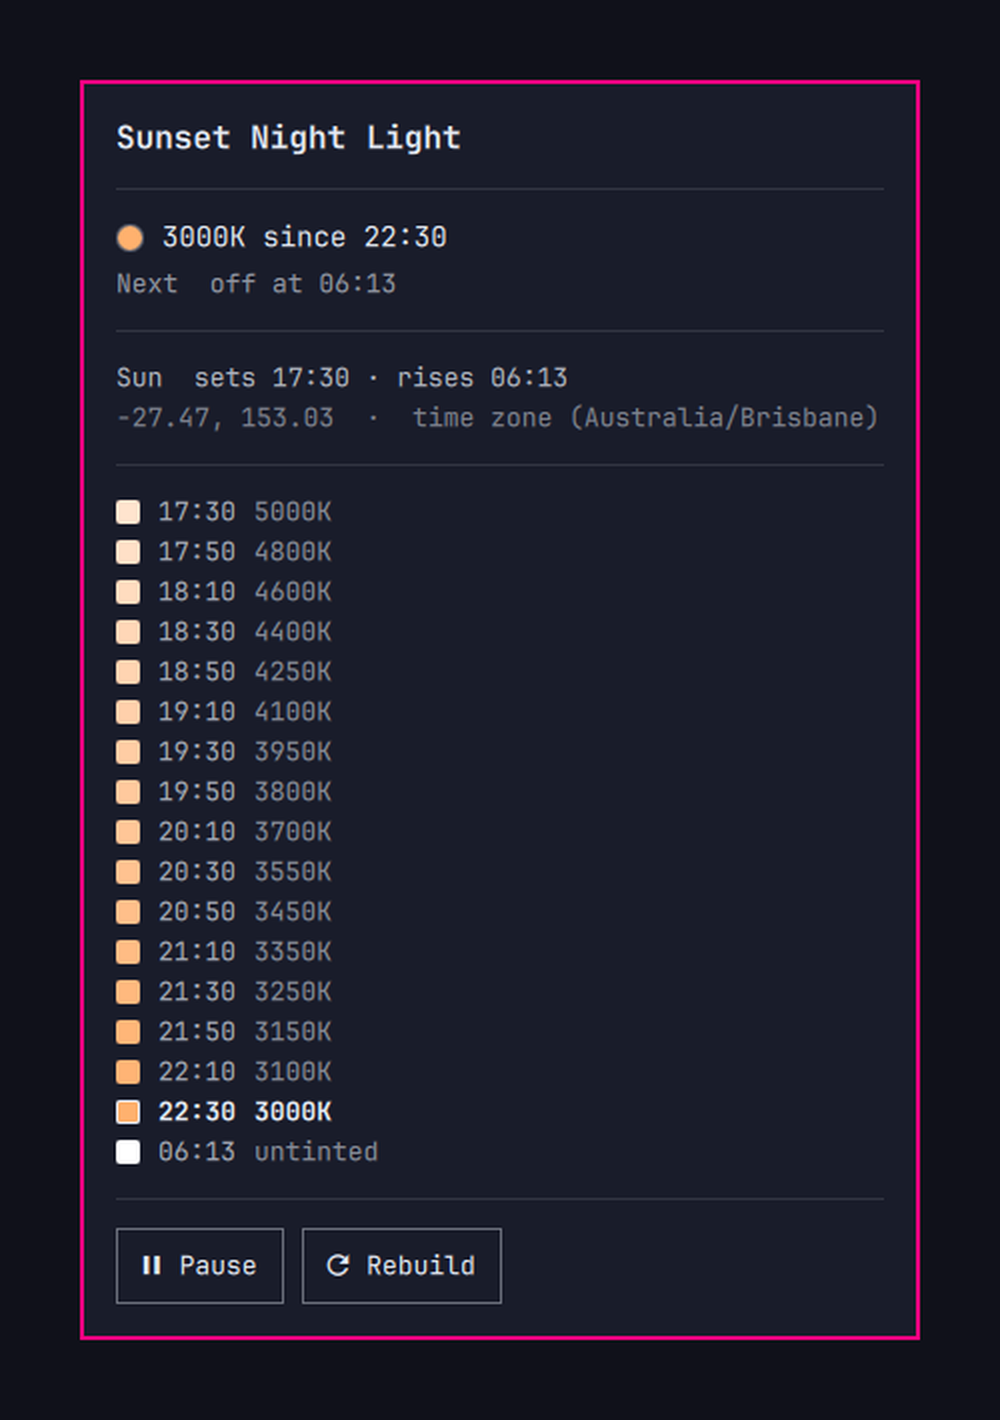
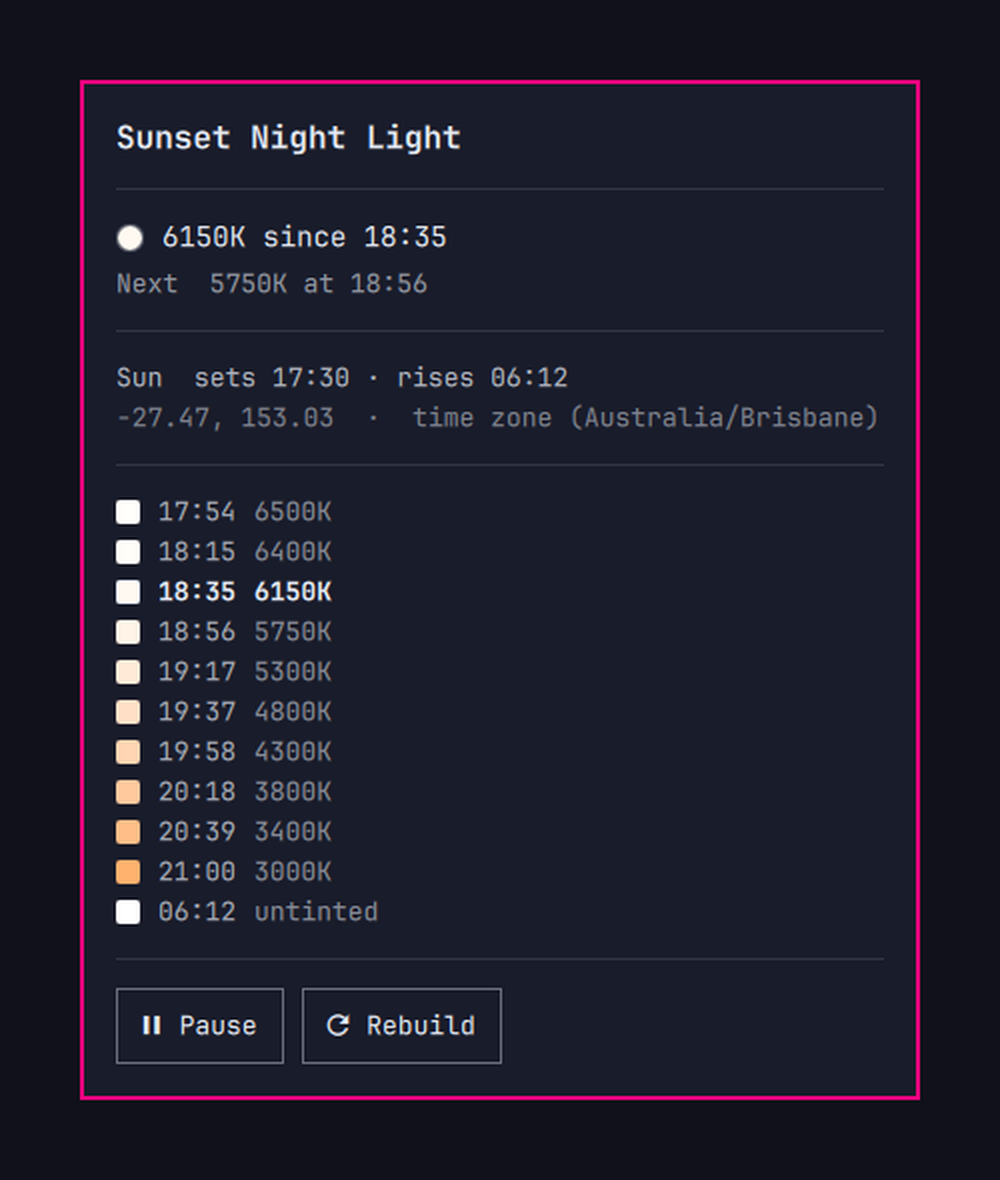
End the ramp at a clock time, not after a fixed duration
Five hours from dusk put full tint at 22:54, which is far too late to be
winding down, and it would only get worse: dusk here moves from 17:28 in
midwinter to 19:09 in midsummer, so a fixed duration drifts the floor towards
midnight exactly when the evening is shortest.

full_tint_by pins the end of the ramp to a clock time instead, defaulting to
21:00. The length then follows the season on its own -- 212 minutes in
midwinter, 186 tonight, 111 in midsummer -- and the screen is always fully warm
at the hour that matters, which is about the evening rather than about the sun.

Setting it to null keeps the old fixed-duration behaviour via ramp_minutes. An
early-hours target such as 01:00 means the following morning. A target that has
already passed by the time it gets dark keeps min_ramp_minutes rather than
inverting the ramp.

Three existing tests set ramp_minutes and so passed without testing anything
once the clock target took over; they now disable it explicitly. Six more cover
the target, the seasonal scaling, and both awkward targets.

Changed region(s): [[0.062, 0.0305, 0.93, 0.8542], [0.062, 0.8542, 0.93, 0.9458]]

diff --git a/tests/test_schedule.py b/tests/test_schedule.py
@@ -111,7 +111,7 @@ def test_zone_with_several_names_still_resolves():
 # ------------------------------------------------------------------ ladder
 
 
-def build(day=date(2026, 8, 21), tz_name="Australia/Brisbane", **overrides):
+def build(day=date(2026, 8, 22), tz_name="Australia/Brisbane", **overrides):
     tz = ZoneInfo(tz_name)
     s = settings(**overrides)
     return nl.build_schedule(s, day, -27.4667, 153.0333, tz), s
@@ -205,7 +205,7 @@ def test_no_duplicate_clock_times():
 def test_ramp_never_runs_past_the_morning_profile():
     # A ramp longer than the night must be clamped, or the ladder would emit a
     # warm profile after the untinted one and hold the tint through the day.
-    (steps, info), _ = build(ramp_minutes=2000)
+    (steps, info), _ = build(ramp_minutes=2000, full_tint_by=None)
     assert info["ramp_end"] < info["day_start"]
     for when, temp in steps:
         if temp is None:
@@ -229,19 +229,75 @@ def test_interpolation_is_even_in_mireds():
     # the 50 K output rounding first, or quantisation noise swamps the check,
     # and flatten the curve, which deliberately makes the steps uneven in time.
     (steps, _), _ = build(step_minutes=60, ramp_minutes=300, round_to_kelvin=1,
-                          ramp_curve_power=1.0)
+                          ramp_curve_power=1.0, full_tint_by=None)
     mireds = [1e6 / t for _, t in steps if t is not None]
     gaps = [b - a for a, b in zip(mireds, mireds[1:])]
     assert max(gaps) - min(gaps) < 0.5, f"mired steps are uneven: {gaps}"
 
 
 def test_rounding_stays_within_half_a_quantum():
-    (rounded, _), s = build(step_minutes=60, ramp_minutes=300)
-    (exact, _), _ = build(step_minutes=60, ramp_minutes=300, round_to_kelvin=1)
+    (rounded, _), s = build(step_minutes=60, ramp_minutes=300, full_tint_by=None)
+    (exact, _), _ = build(step_minutes=60, ramp_minutes=300, round_to_kelvin=1,
+                          full_tint_by=None)
     for (_, got), (_, want) in zip(rounded, exact):
         if got is None or want is None:
             continue
         assert abs(got - want) <= s["round_to_kelvin"] / 2 + 1
+
+
+def test_ramp_ends_at_the_target_clock_time():
+    (steps, info), s = build()
+    assert info["ramp_end"].strftime("%H:%M") == s["full_tint_by"] == "21:00"
+    warm = [(w, temp) for w, temp in steps if temp is not None]
+    assert warm[-1][1] == s["night_temp"]
+    assert warm[-1][0].strftime("%H:%M") == "21:00"
+
+
+def test_ramp_length_follows_the_season():
+    # The point of a clock target: dusk moves by over an hour across the year
+    # here, so a fixed duration would land full tint near midnight in summer.
+    lengths = {}
+    for day in (date(2026, 6, 21), date(2026, 12, 21)):
+        (_, info), _ = build(day=day)
+        lengths[day] = (info["ramp_end"] - info["ramp_start"]).total_seconds() / 60
+        assert info["ramp_end"].strftime("%H:%M") == "21:00", day
+    midwinter, midsummer = lengths[date(2026, 6, 21)], lengths[date(2026, 12, 21)]
+    assert midwinter > midsummer + 60, (
+        f"ramp should stretch in winter: {midwinter} vs {midsummer} min")
+
+
+def test_null_target_falls_back_to_a_fixed_duration():
+    (_, info), _ = build(full_tint_by=None, ramp_minutes=120)
+    length = (info["ramp_end"] - info["ramp_start"]).total_seconds() / 60
+    assert length == 120
+
+
+def test_an_early_hours_target_means_the_next_day():
+    (_, info), _ = build(full_tint_by="01:00")
+    assert info["ramp_end"].strftime("%H:%M") == "01:00"
+    assert info["ramp_end"] > info["ramp_start"]
+    assert info["ramp_end"].date() == info["ramp_start"].date() + timedelta(days=1)
+
+
+def test_a_target_already_past_at_dusk_keeps_a_short_ramp():
+    # Asking to be fully warm at 17:00 when it gets dark at 17:54 is impossible;
+    # it must not invert the ramp or produce a zero-length one.
+    (steps, info), s = build(full_tint_by="17:00")
+    length = (info["ramp_end"] - info["ramp_start"]).total_seconds() / 60
+    assert length == s["min_ramp_minutes"]
+    assert info["ramp_end"] > info["ramp_start"]
+    temps = [temp for _, temp in steps if temp is not None]
+    assert temps == sorted(temps, reverse=True)
+
+
+def test_target_is_validated():
+    for bad in (dict(full_tint_by="25:00"), dict(full_tint_by="nine"),
+                dict(min_ramp_minutes=0)):
+        try:
+            nl.validate(settings(**bad))
+        except SystemExit:
+            continue
+        raise AssertionError(f"validate accepted {bad}")
 
 
 def test_degenerate_location_falls_back_and_is_flagged():

diff --git a/README.md b/README.md
@@ -14,17 +14,24 @@ rebuilt as sunset moves. That is what this does.
 ```
 17:30            sunset — still light out, so nothing happens
 17:54  6500K     civil dusk: the ramp starts at the daytime value
-18:22  6450K     nautical dusk, properly dark now — still imperceptible
-19:14  6000K     the first hint of warmth
-20:34  4900K
-22:54  3000K     five hours in, at the floor
+18:22  6400K     nautical dusk, properly dark now — still imperceptible
+18:56  5750K     the first real warmth
+19:58  4300K
+21:00  3000K     fully warm, at the hour you asked for
 06:12  untinted  sunrise
 ```
 
 It starts at **dusk rather than sunset**, from the daytime temperature rather than a
 warmer one, and on a curve that holds near neutral early. Sunset is still daylight; a
-filter that becomes visible then just reads as firing too early. Nothing here steps — the
-first rung is the value already on screen.
+filter that becomes visible then reads as firing too early. Nothing here steps — the first
+rung is the value already on screen.
+
+It finishes at **a clock time you choose**, not after a fixed number of hours. Dusk moves
+by well over an hour across the year, so a fixed duration drifts full tint towards
+midnight in summer. Pinning the end instead means the ramp stretches through winter and
+compresses in summer, and is always fully warm when you want to be winding down. In
+Brisbane, `full_tint_by: "21:00"` gives a 212-minute ramp in midwinter and 111 in
+midsummer.
 
 ## Location comes from your time zone
 
@@ -178,8 +185,10 @@ If you want to pick your own on and off times from the bar, theirs is the better
 | `night_temp` | `3000` | Kelvin at the deepest point |
 | `day_temp` | `null` | `null` means untinted; a number tints the day too |
 | `ramp_anchor` | `civil_dusk` | `sunset`, `civil_dusk`, `nautical_dusk` or `astronomical_dusk` |
+| `full_tint_by` | `"21:00"` | Clock time to reach `night_temp`. `null` uses `ramp_minutes` instead |
 | `ramp_start_offset_min` | `0` | Minutes relative to the anchor; negative starts earlier |
-| `ramp_minutes` | `300` | How long the ramp takes to reach `night_temp` |
+| `ramp_minutes` | `300` | Fixed ramp length, used only when `full_tint_by` is `null` |
+| `min_ramp_minutes` | `45` | Floor, for when dusk falls close to the target |
 | `step_minutes` | `20` | Ladder granularity |
 | `ramp_curve_power` | `2.0` | `1.0` is a straight line; higher holds near daylight longer |
 | `morning_offset_min` | `0` | Minutes relative to sunrise for the return to day |
@@ -194,6 +203,10 @@ Two things shape how the ramp feels. Temperatures are interpolated in **mireds**
 even ramp to the eye — linear Kelvin steps crowd all the visible change into the warm end.
 On top of that, `ramp_curve_power` biases the movement towards later in the evening, so
 the first hour does very little. Set it to `1.0` for a straight line.
+
+An early-hours `full_tint_by` such as `"01:00"` is taken as the following morning. A time
+that has already passed by the time it gets dark keeps a short ramp rather than inverting
+it.
 
 **Anchors.** Sunset is when the sun's disc goes down and it is still light. Civil dusk
 (sun 6° below) is about when you would reach for a lamp; by nautical dusk (12°) it is
